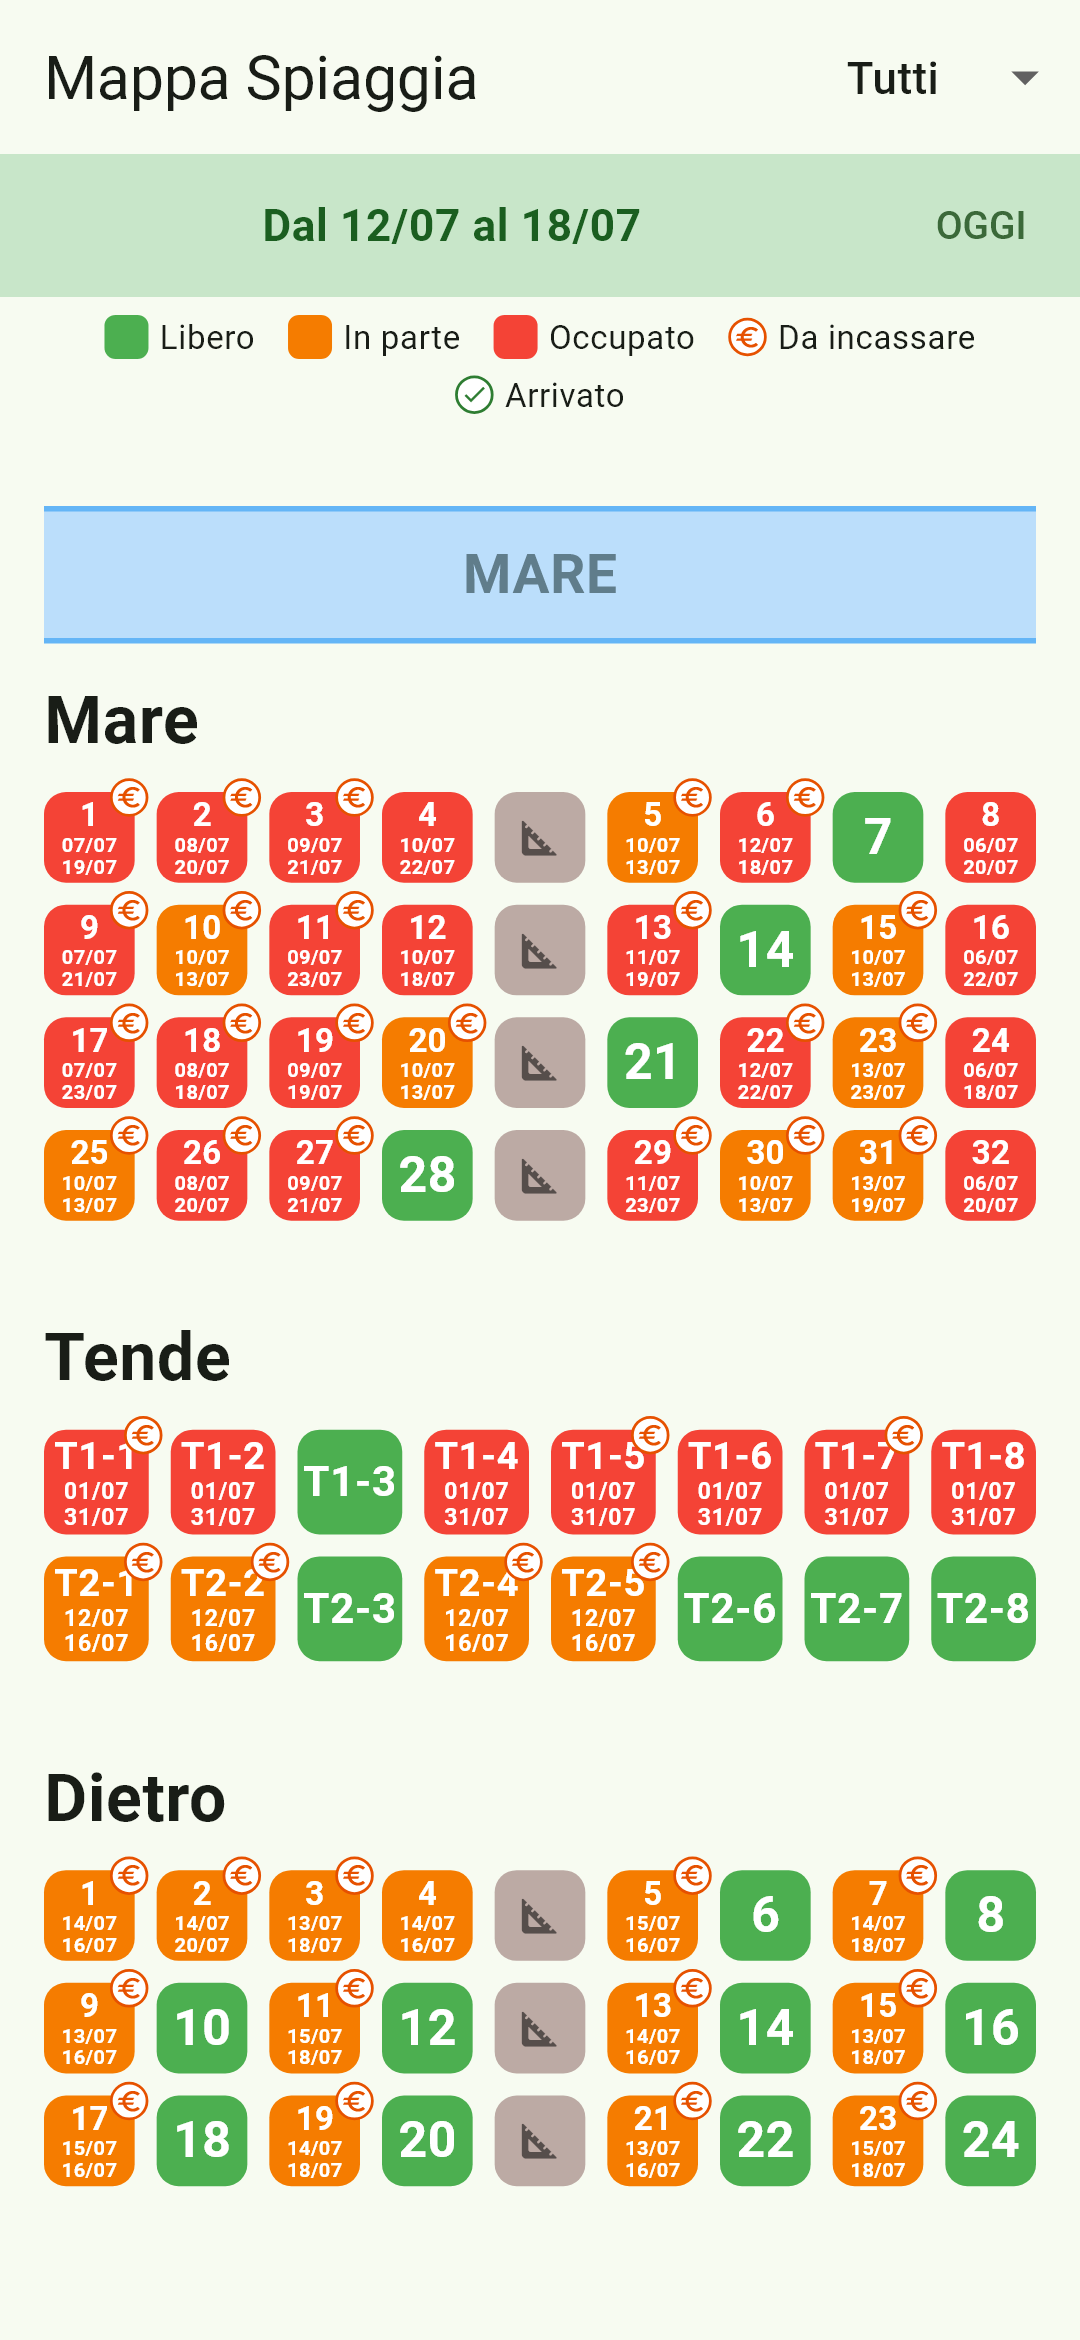
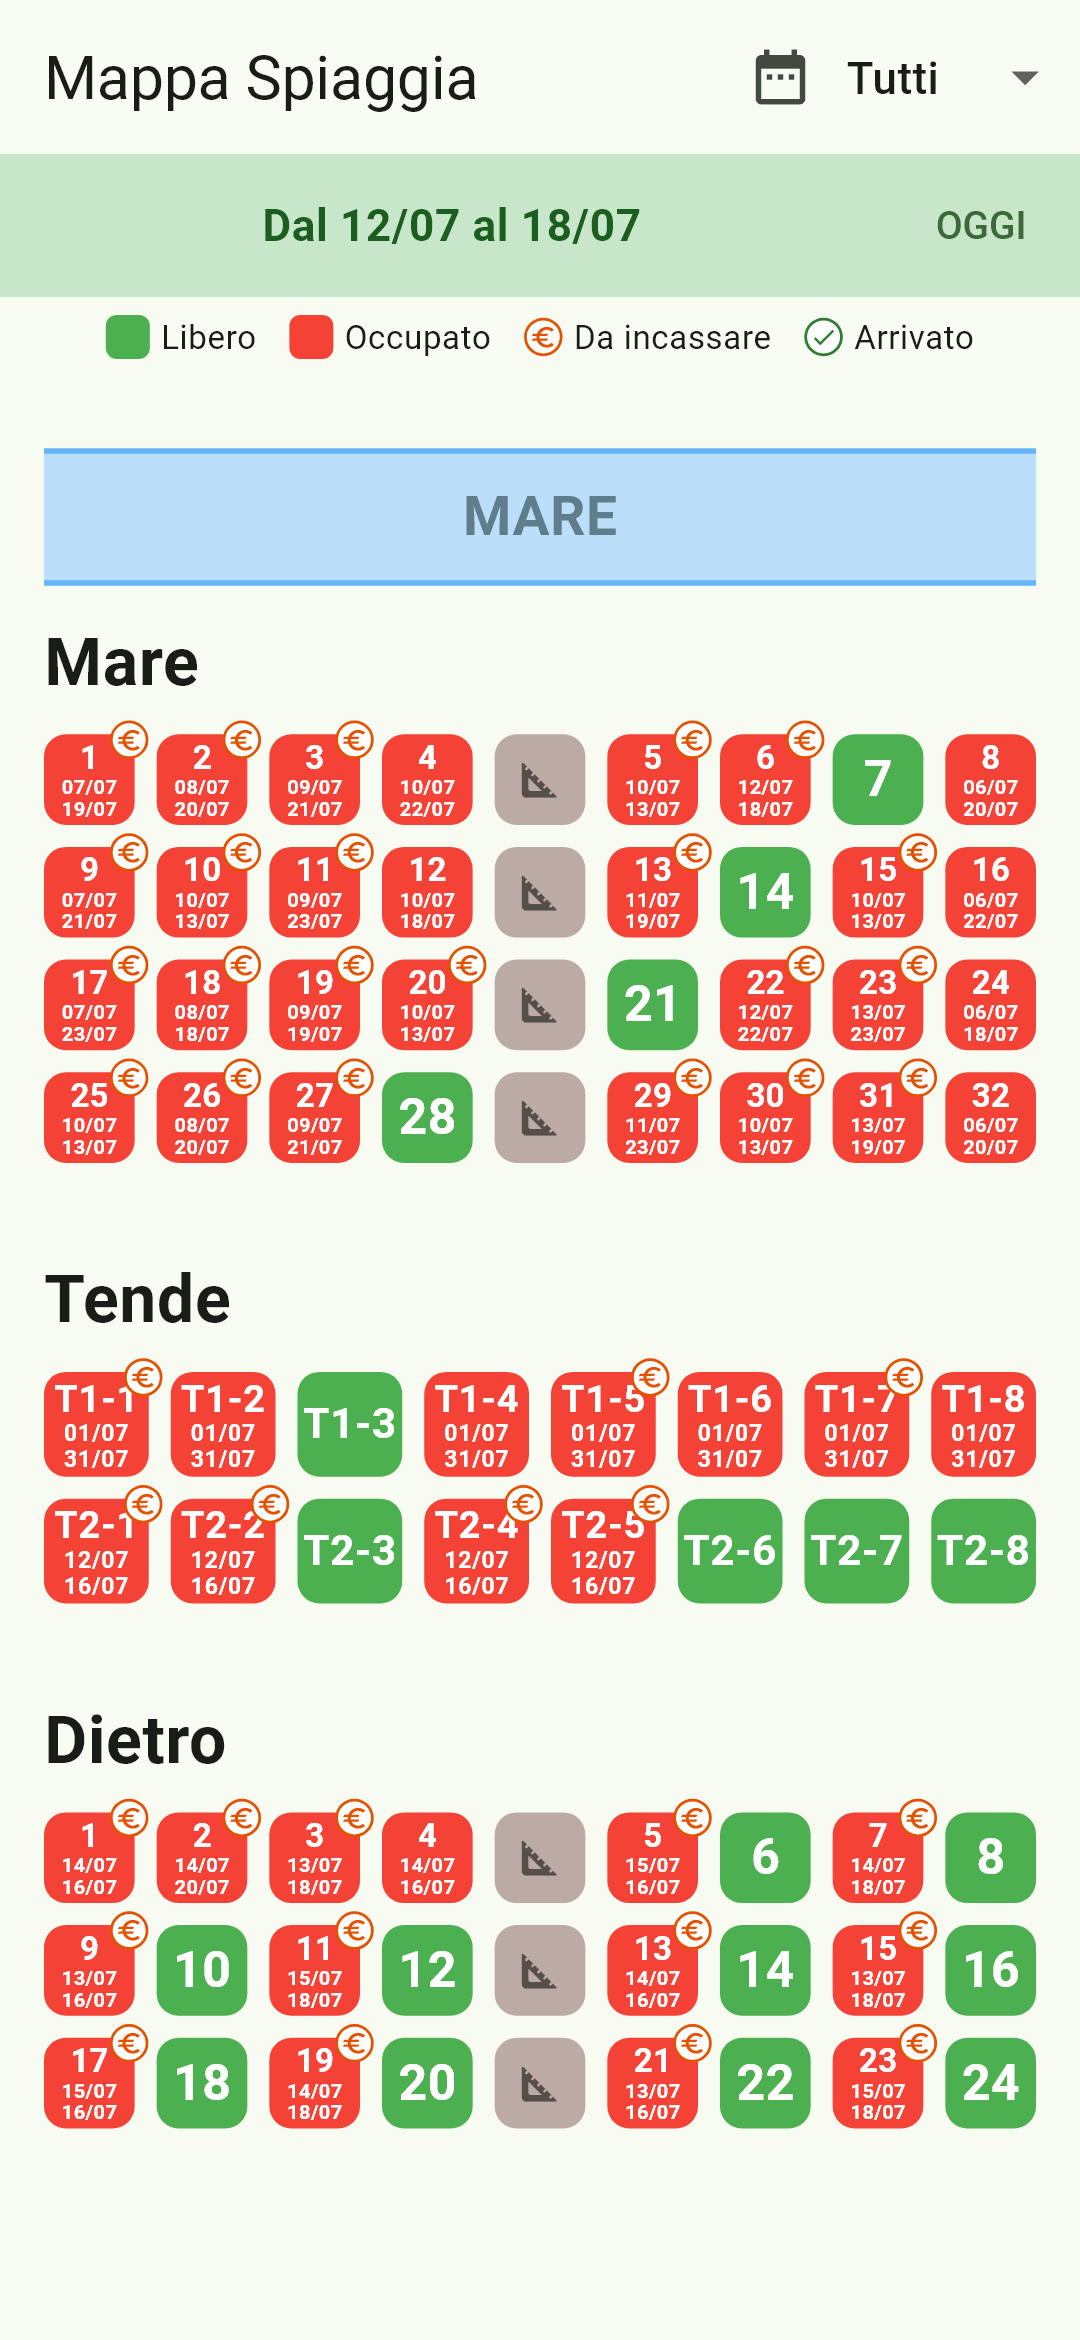
Anteprime e README aggiornati per Planner e "prima / dopo"
- Nuove anteprime del Planner (normale e in modalità sposta).
- Anteprime della mappa senza arancione e della scheda con prima/dopo.
- In modalità sposta l'ombrellone di partenza non è più proposto come
  destinazione; icona calendario per aprire il Planner.
- README: funzioni aggiornate.

diff --git a/applicazione_gestionale/screenshots_test/screenshots_test.dart b/applicazione_gestionale/screenshots_test/screenshots_test.dart
@@ -27,6 +27,7 @@ import 'package:applicazione_gestionale/devices_screen.dart';
 import 'package:applicazione_gestionale/layout_repository.dart';
 import 'package:applicazione_gestionale/main.dart';
 import 'package:applicazione_gestionale/map_screen.dart';
+import 'package:applicazione_gestionale/planner_screen.dart';
 import 'package:applicazione_gestionale/stats_screen.dart';
 
 final today = DateTime(2027, 7, 14);
@@ -263,5 +264,21 @@ void main() {
     await tester.pumpWidget(app(const DevicesScreen()));
     await tester.runAsync(() => Future<void>.delayed(const Duration(milliseconds: 100)));
     await shot(tester, '10_telefoni');
+  });
+
+  testWidgets('11 planner', (tester) async {
+    await phone(tester);
+    await tester.pumpWidget(app(PlannerScreen(beachSectors: sectors)));
+    await shot(tester, '11_planner');
+  });
+
+  testWidgets('12 planner sposta', (tester) async {
+    await phone(tester);
+    await tester.pumpWidget(app(PlannerScreen(beachSectors: sectors)));
+    await tester.pumpAndSettle();
+    await tester.tap(find.text('Bianchi Laura').first);
+    await tester.pumpAndSettle();
+    await tester.tap(find.byTooltip('SPOSTA SU ALTRO OMBRELLONE'));
+    await shot(tester, '12_planner_sposta');
   });
 }

diff --git a/applicazione_gestionale/lib/main.dart b/applicazione_gestionale/lib/main.dart
@@ -280,7 +280,7 @@ class _HomeScreenState extends State<HomeScreen> {
                       const SizedBox(height: 16),
                       _menuButton(Icons.add_circle_outline, 'Nuova Prenotazione', () => _startNewBooking(context)),
                       _menuButton(Icons.map_outlined, 'Mappa di Oggi', () => _openTodayMap(context)),
-                      _menuButton(Icons.view_timeline_outlined, 'Planner (calendario)', () => _openPlanner(context)),
+                      _menuButton(Icons.date_range, 'Planner (calendario)', () => _openPlanner(context)),
                       _menuButton(Icons.people_outline, 'Arrivi e Partenze',
                           () => Navigator.push(context, MaterialPageRoute(builder: (context) => const ArriviOggiScreen()))),
                       _menuButton(Icons.search, 'Cerca, Modifica o Cancella', () => _showSearch(context)),

diff --git a/applicazione_gestionale/lib/planner_screen.dart b/applicazione_gestionale/lib/planner_screen.dart
@@ -202,6 +202,10 @@ class _PlannerScreenState extends State<PlannerScreen> {
 
   Future<void> _placeOn(Umbrella target) async {
     final b = _moving!;
+    if (!_isExtension && target.id == b.umbrellaId) {
+      _showMessage('${b.clientName} è già sull\'ombrellone ${target.simpleId}: scegline un altro.');
+      return;
+    }
     final range = _movingRange ?? b.range;
     try {
       if (_isExtension) {
@@ -224,6 +228,7 @@ class _PlannerScreenState extends State<PlannerScreen> {
   /// In modalità sposta: true se l'ombrellone è libero per le date da piazzare.
   bool _fitsMoving(Umbrella u, List<Booking> all) {
     final b = _moving!;
+    if (!_isExtension && u.id == b.umbrellaId) return false; // è già lì
     final range = _movingRange ?? b.range;
     final candidate = Booking(
       id: _isExtension ? '' : b.id,

diff --git a/applicazione_gestionale/test/planner_test.dart b/applicazione_gestionale/test/planner_test.dart
@@ -129,6 +129,11 @@ void main() {
     await tester.pumpAndSettle();
     expect(find.text('SPOSTA: Da Spostare · dal 10/07 al 12/07'), findsOneWidget);
 
+    // stessa riga di partenza: niente da fare
+    await tester.tapAt(rowPoint(tester, 'T1-1', 5));
+    await tester.pump();
+    expect(find.text('Da Spostare è già sull\'ombrellone T1-1: scegline un altro.'), findsOneWidget);
+
     // riga occupata: rifiutata
     await tester.runAsync(() async {
       await tester.tapAt(rowPoint(tester, 'T1-2', 0));

diff --git a/applicazione_gestionale/lib/map_screen.dart b/applicazione_gestionale/lib/map_screen.dart
@@ -215,7 +215,7 @@ class _MapScreenState extends State<MapScreen> {
               ]
             : [
                 IconButton(
-                  icon: const Icon(Icons.view_timeline_outlined),
+                  icon: const Icon(Icons.date_range),
                   tooltip: 'Planner',
                   onPressed: () => Navigator.push(
                     context,

diff --git a/README.md b/README.md
@@ -21,9 +21,9 @@ App Flutter (`applicazione_gestionale/`) con Firebase Authentication e Cloud Fir
 |---|---|---|
 | ![Arrivi](screenshots/07_arrivi.png) | ![Statistiche](screenshots/08_statistiche.png) | ![Telefono in attesa](screenshots/09_attesa_approvazione.png) |
 
-| Telefoni (approvazione) |
-|---|
-| ![Telefoni](screenshots/10_telefoni.png) |
+| Telefoni (approvazione) | Planner | Planner: sposta |
+|---|---|---|
+| ![Telefoni](screenshots/10_telefoni.png) | ![Planner](screenshots/11_planner.png) | ![Planner sposta](screenshots/12_planner_sposta.png) |
 
 Le anteprime (dati di esempio, formato telefono) si rigenerano con:
 `cd applicazione_gestionale` e poi `flutter test screenshots_test --update-goldens`.
@@ -32,11 +32,17 @@ Le anteprime (dati di esempio, formato telefono) si rigenerano con:
 
 - **Mappa della spiaggia** per settori (Mare, Tende, Dietro), con passerelle e zoom.
   - Si apre sul giorno di oggi. Le frecce ◀ ▶ cambiano giorno, **OGGI** torna a oggi, toccando la data si sceglie un periodo.
-  - Legenda sempre visibile: verde = libero, arancione = occupato solo in parte, rosso = occupato.
+  - Legenda sempre visibile: verde = libero, rosso = occupato nel periodo.
     Sul quadrato compaiono il periodo della prenotazione, **€** se c'è da incassare e **✓** se il cliente è arrivato.
-  - **Pressione lunga** su un ombrellone: tutte le sue prenotazioni della stagione e il tasto "Prenota i giorni liberi".
+  - **Pressione lunga** su un ombrellone: chi c'era **prima**, chi c'è **nel periodo** e chi arriva **dopo**,
+    con i giorni liberi in mezzo, più tutta la stagione.
+- **Planner** (dalla home o dall'icona calendario nella mappa): una riga per ombrellone, una colonna per giorno.
+  Le prenotazioni sono barre con il nome: rosse quelle del periodo scelto, grigie quelle prima e dopo.
+  Tocco su una barra per modificarla, su uno spazio vuoto per prenotare. Per **spostare** si tocca la barra,
+  "Sposta" e poi la riga di destinazione: le righe libere per quelle date diventano verdi.
 - **Scheda prenotazione**: nome con completamento automatico dai clienti già visti, telefono con tasti **Chiama** e
   **WhatsApp** (con il riepilogo della prenotazione già scritto), date, prezzo, acconto, saldato, note.
+  Il riquadro **Prima / Dopo** mostra chi c'è su quell'ombrellone prima e dopo le date scelte.
   Si può spostare su un altro ombrellone o allungare altrove. Mostra chi ha fatto l'ultima modifica.
 - **Controllo doppie prenotazioni**: prima di ogni salvataggio l'app ricontrolla sul server che l'ombrellone sia libero,
   così due telefoni non possono prenotare lo stesso posto negli stessi giorni.
@@ -108,7 +114,7 @@ Lo script aumenta la versione, esegue i test, crea l'APK in `rilasci/`, fa commi
 | `lib/booking_repository.dart` | Lettura delle prenotazioni (un solo listener) e migrazione dati |
 | `lib/booking_service.dart` | Scritture: validazione, controllo conflitti sul server, chi ha modificato |
 | `lib/device_service.dart`, `lib/auth_gate.dart`, `lib/devices_screen.dart` | Accesso senza login: approvazione dei telefoni |
-| `lib/*_screen.dart`, `lib/booking_form.dart` | Schermate |
+| `lib/*_screen.dart`, `lib/booking_form.dart`, `lib/umbrella_timeline_view.dart` | Schermate (mappa, planner, scheda, arrivi, statistiche...) |
 
 ## Sviluppo e test
 
